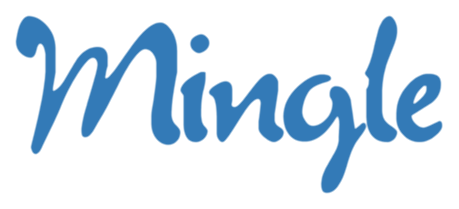
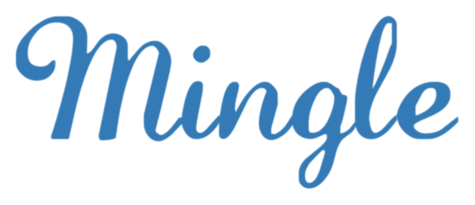
Mongo URL changed

Changed region(s): [[0.0305, 0.0585, 0.976, 0.9366]]

diff --git a/src/components/container/header/header.js b/src/components/container/header/header.js
@@ -23,7 +23,7 @@ class Header extends React.Component {
 								<img src="/assets/images/favicon.ico" />
 							</div>
 							<div className="l-mingle-text col-6 col-sm-4">
-								<img src="/assets/images/mingle8.png" />
+								<img src="/assets/images/mingle.png" />
 							</div>
 							<nav className="col-3 col-sm-4">
 								<i className="fa fa-bars" onClick={this.toggleDropdown}></i>

diff --git a/tools/srcServer.js b/tools/srcServer.js
@@ -11,7 +11,7 @@ import * as users from "./models/users";
 const port = 3000;
 const app = express();
 const compiler = webpack(config);
-mongoose.connect("mongodb://10.207.49.41/mingle");
+mongoose.connect("mongodb://localhost/mingle");
 
 app.use(bodyParser.json());
 
